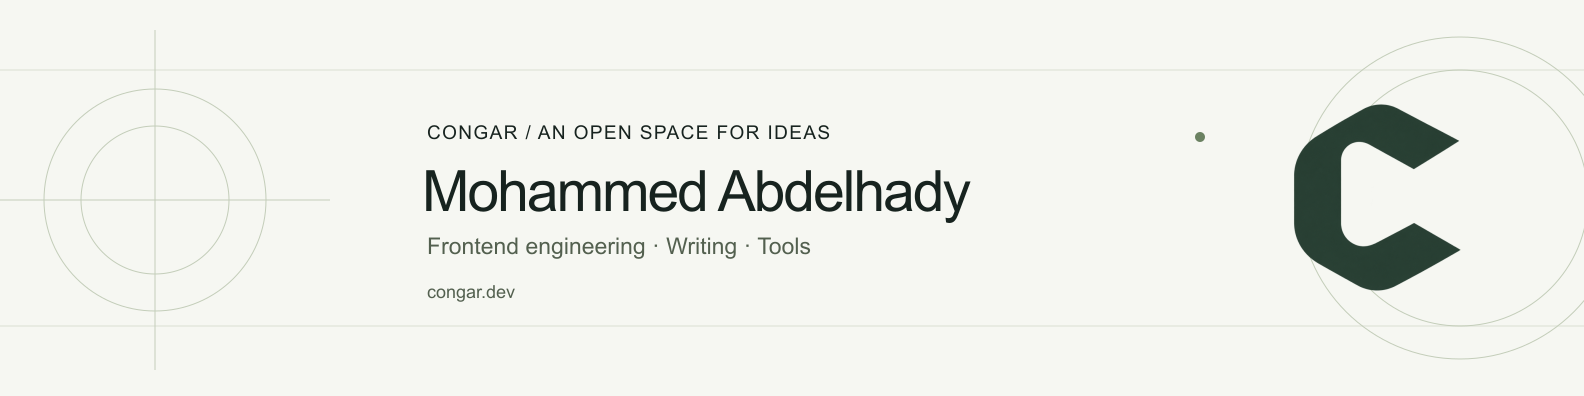
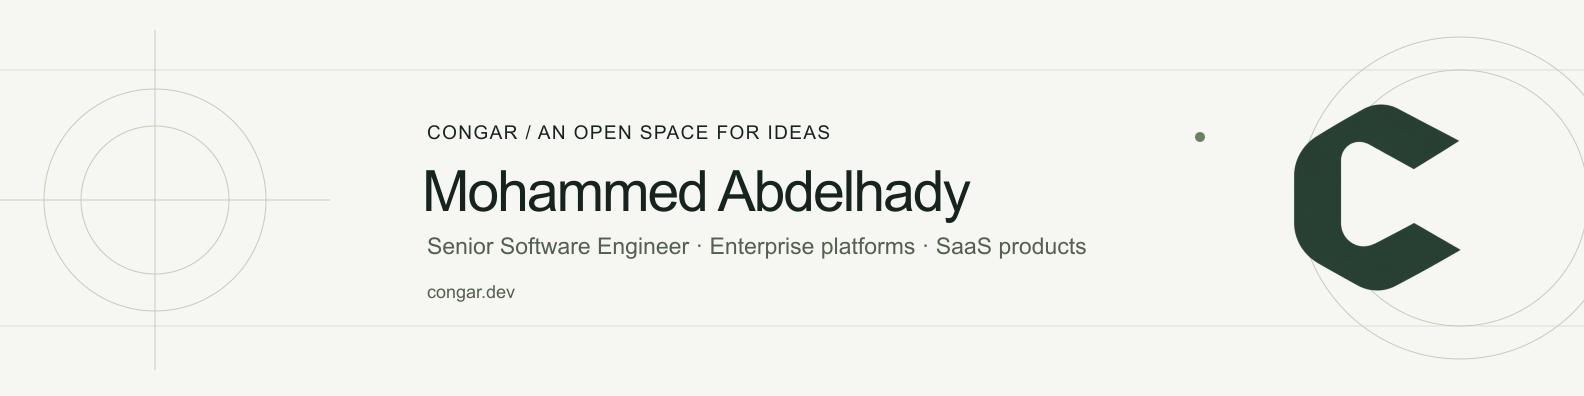
fix: identify profile cover as Senior Software Engineer

Changed region(s): [[0.2475, 0.5758, 0.6806, 0.6667]]

diff --git a/README.md b/README.md
@@ -1,5 +1,5 @@
 <a href="https://www.congar.dev/">
-  <img src="./assets/congar-profile-banner.png" alt="Mohammed Abdelhady. Frontend engineering, writing, and tools. congar.dev" width="100%" />
+  <img src="./assets/congar-profile-banner.png" alt="Mohammed Abdelhady. Senior Software Engineer. Enterprise platforms and SaaS products. congar.dev" width="100%" />
 </a>
 
 I'm Mohammed, a frontend-focused software engineer based in Abu Dhabi. I've spent more than a decade building enterprise platforms and SaaS products. I care about how an interface feels to use, and the fundamentals that make it reliable.
